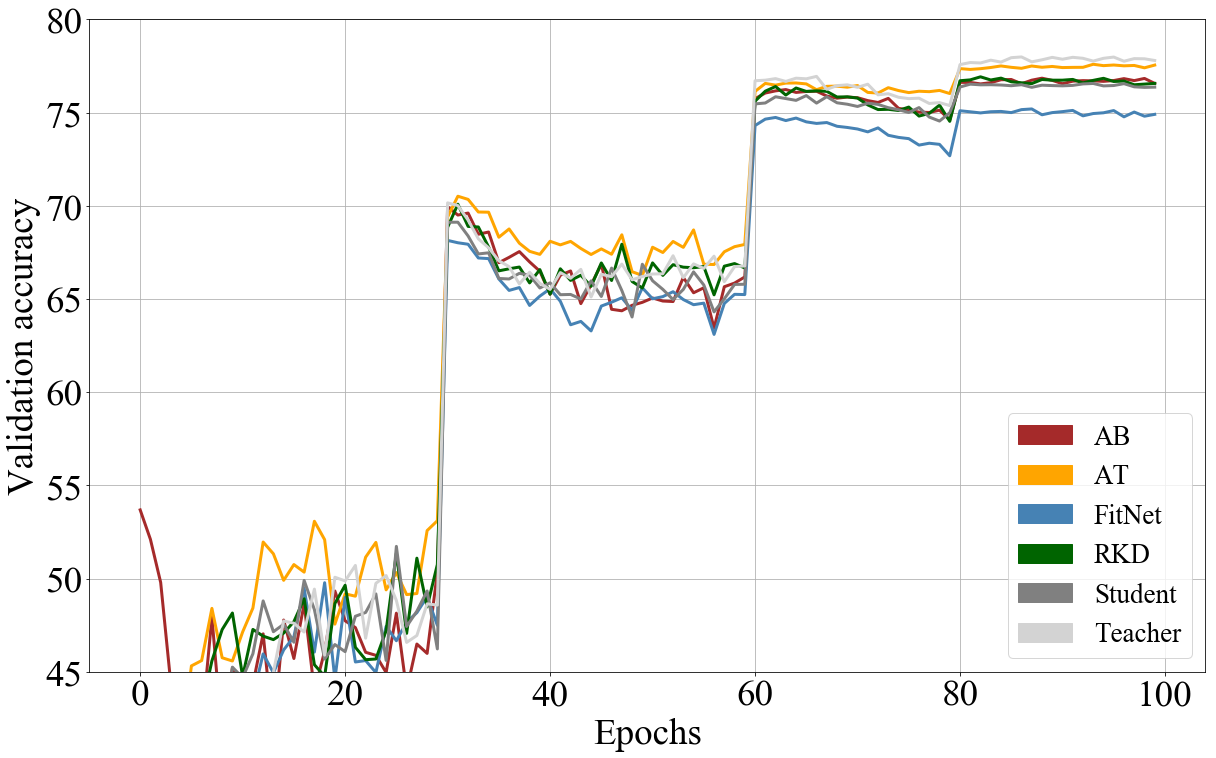
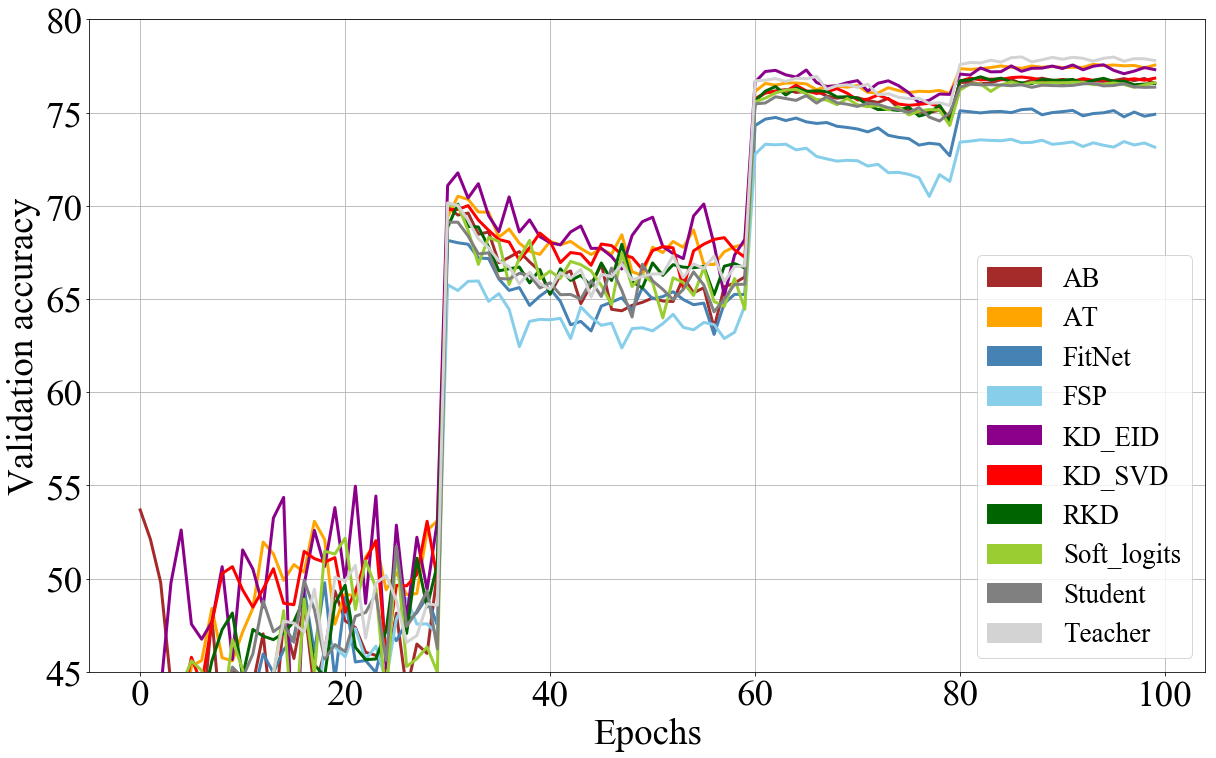
minor issues solved and implement some methods

diff --git a/nets/Relation.py b/nets/Relation.py
@@ -70,15 +70,15 @@ class MHGD(tf.keras.layers.Layer):
                 self.linear_map.append(None)
 
             if i > 0:
-                D = (t.shape[-1]+t_.shape[-1])//2
-                self.Q.append(tf.keras.Sequential([tcl.FC(D*num_head), tcl.BatchNorm()]))
-                self.K.append(tf.keras.Sequential([tcl.FC(D*num_head), tcl.BatchNorm()]))
-                self.E.append([tcl.FC(D), tcl.BatchNorm(activation_fn = tf.nn.relu), tcl.FC(t.shape[-1], use_biases = True)])
-
+                with tf.name_scope('Aux'): 
+                    D = (t.shape[-1]+t_.shape[-1])//2
+                    self.Q.append(tf.keras.Sequential([tcl.FC(D*num_head), tcl.BatchNorm()]))
+                    self.K.append(tf.keras.Sequential([tcl.FC(D*num_head), tcl.BatchNorm()]))
+                    self.E.append([tcl.FC(D), tcl.BatchNorm(activation_fn = tf.nn.relu), 
+                                   tcl.FC(t.shape[-1], use_biases = True, biases_regularizer = tf.keras.regularizers.l2(weight_decay))])
             t_ = t
 
-    @staticmethod
-    def Attention_head(f, b, K, Q, D, num_head, training = False):
+    def Attention_head(self, f, b, K, Q, D, num_head, training = False):
         B = f.shape[0]
 
         k = K(f, training = training)
@@ -91,8 +91,7 @@ class MHGD(tf.keras.layers.Layer):
         q = tf.transpose(q,[2,1,0])
         return tf.matmul(k, q)
 
-    @staticmethod
-    def Estimator(f, G, E, Db, num_head, training):
+    def Estimator(self, f, G, E, Db, num_head, training):
         B = G.shape[1]
         G = tf.nn.softmax(G)
 
@@ -107,17 +106,15 @@ class MHGD(tf.keras.layers.Layer):
         f = tf.reshape(tf.matmul(G, f), [num_head, B, D])
         f = tf.reshape(tf.transpose(f,[1,0,2]),[B,D*num_head])
 
-        f = E[2](f)                
+        f = E[2](f)
         b_ = tf.nn.l2_normalize(f, -1)
         return b_
     
-    @staticmethod
-    def kld_loss(X, Y):
+    def kld_loss(self, X, Y):
         return tf.reduce_sum( tf.nn.softmax(X)*(tf.nn.log_softmax(X)-tf.nn.log_softmax(Y)) )
 
     def call(self, student_feat, teacher_feat, training = False):
         KD_losses = []
-        MHA_losses = []
         for i, (s,t,lm,q,k,e) in enumerate(zip(student_feat, teacher_feat, self.linear_map, self.Q, self.K, self.E)):
             if lm:
                 s = lm(s)
@@ -132,10 +129,6 @@ class MHGD(tf.keras.layers.Layer):
             if i > 0:
                 D_ = sb.shape[1]
                 D2 = (D+D_)//2
-                G_T = self.Attention_head(t, tb, k, q, D2, self.num_head, training = training)
-                t_  = self.Estimator(tb, G_T, e, D, self.num_head, training = training)
-                MHA_losses.append(tf.reduce_mean(1-tf.reduce_sum(t_*t,1)))
-                    
                 G_T = self.Attention_head(t, tb, k, q, D2, self.num_head, training = False)
                 G_S = self.Attention_head(s, sb, k, q, D2, self.num_head, training = False)
 
@@ -145,9 +138,22 @@ class MHGD(tf.keras.layers.Layer):
                 KD_losses.append(self.kld_loss(G_S, G_T))
                     
             tb, sb = t, s
-        self.MHA_loss = tf.add_n(MHA_losses)
         return tf.add_n(KD_losses)
 
-    def aux_call(self, target_feat, source_feat, training = False):
-        self.call(target_feat, source_feat, training = training)
-        return self.MHA_loss
+    def aux_call(self, teacher_feat, training = False):
+        MHA_losses = []
+        with tf.name_scope('Aux'): 
+            for i, (t,q,k,e) in enumerate(zip(teacher_feat, self.Q, self.K, self.E)):
+                _,_,t = SVP.SVD(t, 1, 'EID')
+                D = t.shape[1]
+            
+                t = tf.reshape(t,[-1,D])
+
+                if i > 0:
+                    D_ = tb.shape[1]
+                    D2 = (D+D_)//2
+                    G_T = self.Attention_head(t, tb, k, q, D2, self.num_head, training = training)
+                    t_  = self.Estimator(tb, G_T, e, D, self.num_head, training = training)
+                    MHA_losses.append(tf.reduce_mean(1-tf.reduce_sum(t_*t,1)))
+                tb = t
+            return tf.add_n(MHA_losses)

diff --git a/op_util.py b/op_util.py
@@ -46,7 +46,6 @@ def Multitask_Optimizer(target_model, source_model, distill_model, LR, clipped =
         
     @tf.function
     def training(images, labels, lr):
-        trained_variables = target_model.trainable_variables + distill_model.trainable_variables
         with tf.GradientTape(persistent = clipped) as tape:
             predictions, target_feat = target_model.get_feat(images, distill_model.feat_name, True)
             _,source_feat = source_model.get_feat(images, distill_model.feat_name, False)
@@ -58,6 +57,8 @@ def Multitask_Optimizer(target_model, source_model, distill_model, LR, clipped =
             target_loss = loss + regularizer_loss
             total_loss = target_loss + distillation_loss
 
+        trained_variables = target_model.trainable_variables\
+                          + [v for v in distill_model.trainable_variables if v.name.split('/')[0] != 'Aux']
         if clipped:
             gradients_dist   = tape.gradient(distillation_loss, trained_variables)
             gradients_target = tape.gradient(target_loss, trained_variables)
@@ -99,11 +100,12 @@ def Initializer_Optimizer(target_model, source_model, distill_model, LR):
         trained_variables = target_model.trainable_variables + distill_model.trainable_variables
         gradients_dist = tape.gradient(distillation_loss, trained_variables)
         gradients_reg  = tape.gradient(regularizer_loss, trained_variables)
+
         optimizer.apply_gradients([(gd+gr,v) for gd, gr, v in zip(gradients_dist, gradients_reg, trained_variables) if gd is not None] )
         train_loss.update_state(distillation_loss)
     return training, train_loss
 
-def Auxiliary_Optimizer(target_model, source_model, distill_model, LR):
+def Auxiliary_Optimizer(source_model, distill_model, LR):
     with tf.name_scope('Optimizer_w_Distillation'):
         optimizer = tf.keras.optimizers.SGD(LR, .9, nesterov=True)
         train_loss = tf.keras.metrics.Mean(name='distill_loss')
@@ -111,15 +113,14 @@ def Auxiliary_Optimizer(target_model, source_model, distill_model, LR):
     @tf.function
     def training(images):
         with tf.GradientTape(persistent = True) as tape:
-            _, target_feat = target_model.get_feat(images, distill_model.feat_name, True)
             _, source_feat = source_model.get_feat(images, distill_model.feat_name, False)
-            aux_loss = distill_model.aux_call(target_feat, source_feat, training = True)
-            regularizer_loss = tf.add_n(target_model.losses+distill_model.losses)
+            aux_loss = distill_model.aux_call(source_feat, training = True)
+            aux_loss += tf.add_n(distill_model.losses)
             
-        trained_variables = distill_model.trainable_variables
-        gradients_aux = tape.gradient(aux_loss, trained_variables)
-        gradients_reg = tape.gradient(regularizer_loss, trained_variables)
-        optimizer.apply_gradients([(ga+gr,v) for ga, gr, v in zip(gradients_aux, gradients_reg, trained_variables) if ga is not None] )
+        trained_variables = distill_model.trainable_variables\
+                          + [v for v in distill_model.trainable_variables if v.name.split('/')[0] == 'Aux']
+        gradients = tape.gradient(aux_loss, trained_variables)
+        optimizer.apply_gradients(zip(gradients, trained_variables))
         train_loss.update_state(aux_loss)
     return training, train_loss
 

diff --git a/nets/Multiple.py b/nets/Multiple.py
@@ -98,7 +98,8 @@ class VID(tf.keras.layers.Layer):
         def kwargs(**kwargs):
             return kwargs
         setattr(tcl.Conv2d, 'pre_defined', kwargs(kernel_regularizer = tf.keras.regularizers.l2(weight_decay),
-                                                  use_biases = False, activation_fn = None))
+                                                  biases_regularizer = tf.keras.regularizers.l2(weight_decay),
+                                                  activation_fn = None))
         setattr(tcl.BatchNorm, 'pre_defined', kwargs(param_regularizers = {'gamma':tf.keras.regularizers.l2(weight_decay),
                                                                             'beta':tf.keras.regularizers.l2(weight_decay)}))
         
@@ -106,17 +107,17 @@ class VID(tf.keras.layers.Layer):
             Ds = s.shape[-1]
             layers = []
             for i in range(3):
-                tcl.Conv2d([1,1], Ds if i == 2 else Ds*2)
+                layers.append(tcl.Conv2d([1,1], Ds if i == 2 else Ds*2))
                 if i < 2:
-                    tcl.BatchNorm(activation_fn = tf.nn.relu)
+                    layers.append(tcl.BatchNorm(activation_fn = tf.nn.relu))
             self.linear_map.append(tf.keras.Sequential(layers))
-            self.alpha.append(self.add_weight(name  = 'alpha', shape = [1,1,1,Ds], 
+            self.alpha.append(self.add_weight(name  = 'alpha', shape = [1,1,1,Ds],trainable = True, 
                                               initializer=tf.keras.initializers.Constant(5.)))
             
     def call(self, target_feat, source_feat):
         def VID_loss(t, s, lm, alpha):
-            s = lm(s, True)
-            var   = tf.math.softplus(alpha)+1
+            t = lm(t, True)
+            var = tf.math.softplus(alpha)+1e-5
             return tf.reduce_mean(tf.math.log(var) + tf.square(t - s)/var)/2
         
         return tf.add_n([VID_loss(*args) for args in zip(target_feat, source_feat, self.linear_map, self.alpha)])*self.l

diff --git a/train_w_distill.py b/train_w_distill.py
@@ -7,6 +7,7 @@ os.environ['TF_CPP_MIN_LOG_LEVEL'] = '2'
 from dataloader import Dataloader
 import op_util
 from nets import WResNet
+from nets import Response
 from nets import Multiple
 from nets import Shared
 from nets import Relation
@@ -94,7 +95,7 @@ if __name__ == '__main__':
             distill_model = Relation.MHGD(student_model, teacher_model, weight_decay = weight_decay)
             clipped = True
             
-        init_step,  init_loss = op_util.Auxiliary_Optimizer(student_model, teacher_model, distill_model, Learning_rate)
+        init_step,  init_loss = op_util.Auxiliary_Optimizer(teacher_model, distill_model, Learning_rate)
         train_step, train_loss, train_accuracy, dist_loss,\
         test_step,  test_loss,  test_accuracy = op_util.Multitask_Optimizer(student_model, teacher_model, distill_model,
                                                                             Learning_rate, clipped = clipped)
@@ -145,7 +146,6 @@ if __name__ == '__main__':
                     train_time = time.time()
             tf.summary.scalar('Categorical_loss/train', train_loss.result(), step=epoch+1)
             tf.summary.scalar('Accuracy/train', train_accuracy.result()*100, step=epoch+1)
-
             tf.summary.scalar('learning_rate', lr, step=epoch)
                 
             for test_images, test_labels in test_ds:
@@ -165,7 +165,7 @@ if __name__ == '__main__':
             test_loss.reset_states()
             test_accuracy.reset_states()
 
-            if args.Distillation not in {'None','AB','FitNet'}:
+            if args.Distillation not in {'None','AB','FitNet','FSP'}:
                 tf.summary.scalar('Distillation_loss/train', dist_loss.result(), step=epoch+1)
                 dist_loss.reset_states()
 

diff --git a/README.md b/README.md
@@ -68,12 +68,14 @@ The teacher network is WResNet40-4 and Student is WResNet16-4, and the student n
 Methods     | Last Accuracy | Methods     | Last Accuracy 
 ------------| ------------- | ------------| ------------- 
 Teacher     | 77.80         | Student     | 76.37         
-FitNet*     | 74.91         | AT     | 77.55         
+Soft_logits  | 76.77       | FitNet*     | 74.91
+AT     | 77.55              | FSP*     | 73.15
+KD_SVD    | 76.85         | KD_EID     | 77.22
 AB*         | 76.57         | RKD*     | 76.57         
 
 <img src="plots.png" width="800">
-
 # Plan to do
-- Converting TF1.x algorithm to TF2.0. ( 9 / 12 )
-- Final check for KD algorithm is on going.( 4 / 12 )
+- Converting TF1.x algorithm to TF2.0. ( 10 / 12 )
+- Final check for KD algorithm is on going.( 8 / 12 )
+
 
